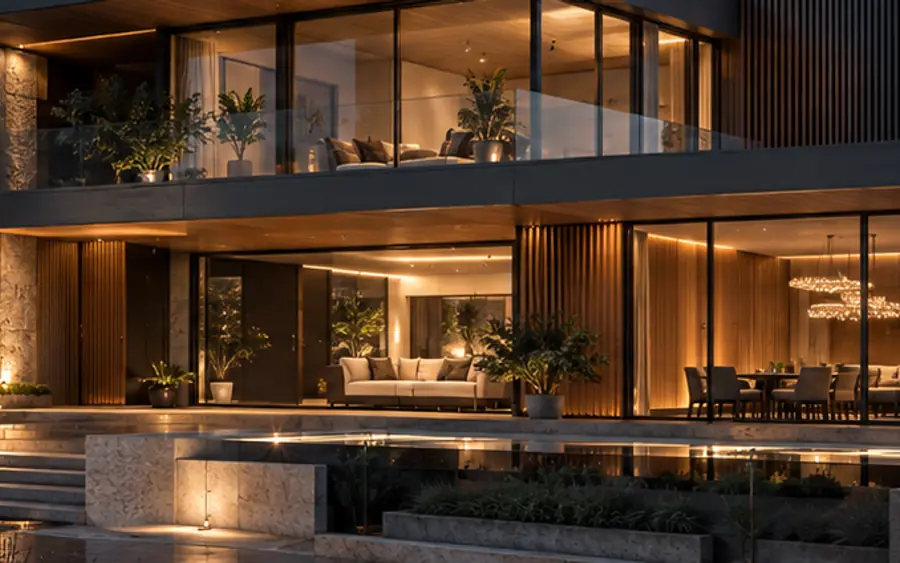
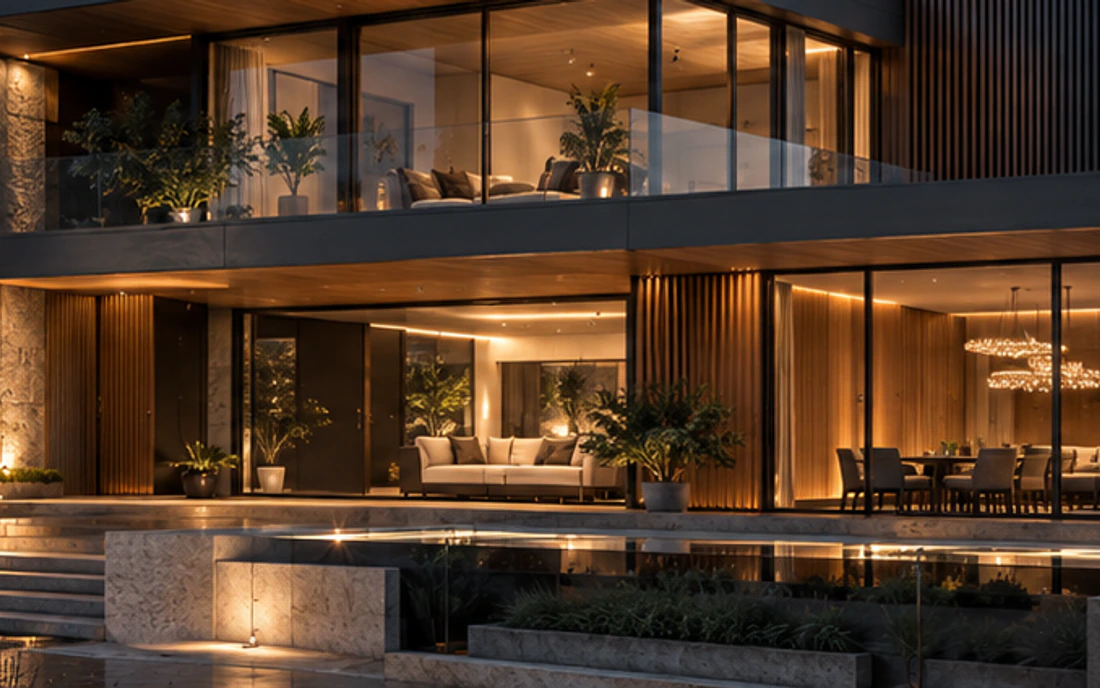
fix: os tres defeitos do cabecalho novo
1. A IMAGEM ERA CORTADA NA ALTURA. A moldura tinha teto de 74vh, que eu
   pus para a foto nao dominar telas largas; em tela larga o teto entrava
   em acao e cortava por cima e por baixo. O teto saiu, e com ele a regra
   de tela baixa que encolhia a moldura -- encolher ali e cortar, e o
   corte era o defeito.

   Para o teto poder sair, as tres imagens precisavam da MESMA proporcao.
   A do penhasco era 1.78 contra 2.18 das outras duas; ela foi cortada na
   geracao do arquivo, perdendo 175px do rodape de piscina e pedra, sem
   nenhuma letra. As tres agora diferem 0.05 por cento entre si, e nada e
   cortado no navegador.

2. O MENU TINHA FUNDO ESCURO. A abertura reservava ate 150px de respiro
   em cima, entao a barra fixa ficava sobre onix em vez de sobre a
   imagem. A fotografia passou a encostar no topo da pagina.

3. A QUALIDADE. Duas causas. A compressao estava em 74, pouco para uma
   imagem de 1853px ocupando a largura inteira, e foi para 92. E o
   arquivo de 960px era servido a telas de ate 1280px por um source
   media, ou seja, esticado: agora ele e uma opcao de srcset com a
   largura declarada, e quem escolhe e o navegador, pela tela dele.

   LIMITE QUE PERMANECE: os arquivos de origem tem 1853px. Numa tela de
   alta resolucao o navegador quer o dobro para largura inteira. Se a
   nitidez ainda incomodar, e disso que se trata, e a saida e gerar os
   renders com uns 3700px.

PESO: as tres fotos foram de 424 KB para 896 KB. E o preco da qualidade
[…]

Changed region(s): [[0.1556, 0.2718, 0.1867, 0.302]]

diff --git a/index.html b/index.html
@@ -459,22 +459,24 @@
     position: relative;
     display: flex;
     flex-direction: column;
-    justify-content: center;
-    min-height: 100svh;
-    /* sem margem lateral: a fotografia vai de borda a borda */
-    padding: clamp(96px, 12vh, 150px) 0 clamp(26px, 4vh, 52px);
+    /* Sem margem lateral e SEM RESPIRO EM CIMA: a fotografia encosta no alto
+       da pagina. E isso que faz o cabecalho fixo voltar a flutuar sobre a
+       imagem, em vez de ficar sobre uma faixa de onix. */
+    padding: 0 0 clamp(26px, 4vh, 52px);
   }
 
-  /* A moldura da fotografia. A proporcao e a das imagens da cliente; o teto
-     de altura evita que numa tela muito larga ela tome a pagina inteira, e o
-     corte que sobra e sempre VERTICAL, nunca lateral, que e o que cortaria o
-     titulo desenhado. */
+  /* A moldura da fotografia, na proporcao exata das tres imagens.
+
+     SEM TETO DE ALTURA. Havia um de 74vh, e ele cortava a imagem por cima e
+     por baixo -- foi o primeiro defeito que ela viu. Como as tres imagens
+     foram levadas a MESMA proporcao na hora de gerar os arquivos (a do
+     penhasco era mais alta e perdeu o rodape de piscina, sem nenhuma letra),
+     a moldura cai certa e nao sobra corte nenhum em tela nenhuma. */
   .capa-palco {
     position: relative;
     flex: none;
     width: 100%;
     aspect-ratio: 1853 / 849;
-    max-height: 74vh;
     overflow: hidden;
     background: var(--onix-alto);
   }
@@ -497,9 +499,10 @@
     width: 100%;
     height: 100%;
     object-fit: cover;
-    /* 30 por cento do corte sai de cima e 70 de baixo: o titulo desenhado
-       fica no alto, e a foto do penhasco e mais alta que as outras duas */
-    object-position: center 30%;
+    /* As tres ja estao na proporcao da moldura, entao o cover aqui nao corta
+       nada: ele so garante o preenchimento se algum arquivo for trocado por
+       outro de proporcao diferente. */
+    object-position: center center;
   }
 
   /* Marcadores do slideshow. Perderam o nome da cidade: as imagens nao sao de
@@ -1619,7 +1622,8 @@
   /* Telas largas mas baixas, como notebook: quem encolhe e a fotografia, para
      a abertura inteira caber sem empurrar nada para debaixo do cabecalho. */
   @media (min-width: 901px) and (max-height: 880px) {
-    .capa-palco { max-height: 58vh; }
+    /* A FOTOGRAFIA NAO ENCOLHE AQUI. Encolher a moldura e cortar a imagem, e
+       o corte era justamente o defeito. Quem cede e o espaco abaixo dela. */
     .abertura-conteudo { padding-top: clamp(16px, 2vh, 26px); }
     .abertura-rodape { margin-top: clamp(12px, 1.8vh, 22px); }
   }
@@ -1736,23 +1740,26 @@
     <div class="slides" id="slides" aria-hidden="true">
       <div class="slide ativa">
         <picture>
-          <source media="(max-width: 900px)" srcset="fotos/capa-1-cel.webp">
-          <source media="(max-width: 1280px)" srcset="fotos/capa-1-960.webp">
-          <img src="fotos/capa-1.webp" alt="" width="1853" height="849" fetchpriority="high" decoding="async">
+          <source media="(max-width: 900px)" srcset="fotos/capa-1-cel.webp" width="1100" height="688">
+          <img src="fotos/capa-1.webp"
+               srcset="fotos/capa-1-960.webp 960w, fotos/capa-1.webp 1853w" sizes="100vw"
+               alt="" width="1853" height="849" fetchpriority="high" decoding="async">
         </picture>
       </div>
       <div class="slide">
         <picture>
-          <source media="(max-width: 900px)" srcset="fotos/capa-2-cel.webp">
-          <source media="(max-width: 1280px)" srcset="fotos/capa-2-960.webp">
-          <img src="fotos/capa-2.webp" alt="" width="1672" height="941" loading="lazy" decoding="async">
+          <source media="(max-width: 900px)" srcset="fotos/capa-2-cel.webp" width="1100" height="688">
+          <img src="fotos/capa-2.webp"
+               srcset="fotos/capa-2-960.webp 960w, fotos/capa-2.webp 1672w" sizes="100vw"
+               alt="" width="1672" height="766" loading="lazy" decoding="async">
         </picture>
       </div>
       <div class="slide">
         <picture>
-          <source media="(max-width: 900px)" srcset="fotos/capa-3-cel.webp">
-          <source media="(max-width: 1280px)" srcset="fotos/capa-3-960.webp">
-          <img src="fotos/capa-3.webp" alt="" width="1852" height="849" loading="lazy" decoding="async">
+          <source media="(max-width: 900px)" srcset="fotos/capa-3-cel.webp" width="1100" height="688">
+          <img src="fotos/capa-3.webp"
+               srcset="fotos/capa-3-960.webp 960w, fotos/capa-3.webp 1852w" sizes="100vw"
+               alt="" width="1852" height="849" loading="lazy" decoding="async">
         </picture>
       </div>
     </div>
